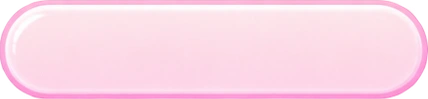
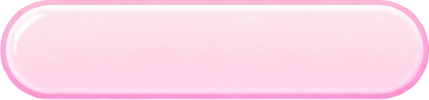
Her pills were chopped in the picture, not in the stretching
The boxes the sheet of buttons was cut with were read off it by eye and several
were narrower than the drawing: chip-off came out 71 wide when her pill is 92,
so the round end was gone before CSS ever saw it - day and night alike, because
both themes wear the same painted files.  The cut now follows her paint
outwards from the middle of each box and keeps the box as well, so a piece can
only grow; it may not reach a neighbour's box, and only solid paint counts, or
the soft shadow between two pieces carries the walk across and a sliver of the
neighbour lands inside the rounded end.

Every piece was cut again and the slice numbers follow the new sizes.  Every
screen's heading now wears one size of icon, so the name of the screen stops
jumping as she moves between them, and the white dot in the Stats legend gets a
faint edge - white on a white card was no dot at all.  The ring's outline is a
little heavier, as she asked.

Claude-Session: https://claude.ai/code/session_011dwC97mpamxjFAUmrBWqmg

diff --git a/app.css b/app.css
@@ -138,6 +138,10 @@ main.study ~ #tabs{display:none}
 /* The name of the screen, the way she drew it: her icon, the word in big
    letters, and what it counts on the right. */
 .head{display:flex;align-items:center;gap:12px;padding:2px 4px 2px 2px}
+/* Every screen's heading wears the same size of icon, so the name of the screen
+   sits at the same height wherever she is - one of them a few pixels bigger and
+   the line jumped as she moved between them. */
+.head .ic{--s:48px}
 .head h1{margin:0;font-size:27px;font-weight:700;letter-spacing:.01em;
   text-shadow:0 1px 4px rgba(255,255,255,.9)}
 /* It stands on her sky, not on a card: grey on that blue all but disappeared. */
@@ -248,13 +252,16 @@ main.study ~ #tabs{display:none}
 .wheel .pct{font-size:22px;font-weight:700}
 .wheel .legend{flex:1;min-width:0;display:flex;flex-direction:column;gap:6px;font-size:14px}
 .wheel .legend div{display:flex;align-items:center;gap:8px}
-.wheel .legend i.dot{width:10px;height:10px;border-radius:50%;flex:none}
+/* The dot for the words she has not started is white, and a white dot on a
+   white card is no dot at all: every one of them carries a faint edge. */
+.wheel .legend i.dot{width:10px;height:10px;border-radius:50%;flex:none;
+  box-shadow:0 0 0 1px rgba(22,70,110,.22)}
 .wheel .legend b{margin-left:auto;font-weight:700}
 /* The little pink plate she writes a section's name on - hers, painted, not one
    drawn in CSS.  Sliced at half its height (58/2), the same rule as the pills. */
 .grp{align-self:flex-start;padding:6px 15px;font-size:11px;font-weight:700;
   color:#b93a76;border:0 solid transparent;background:none;
-  border-image:url(img/tag-pink.webp) 0 29 fill / 0 14px / 0 stretch;
+  border-image:url(img/tag-pink.webp) 0 30 fill / 0 14px / 0 stretch;
   text-transform:uppercase;letter-spacing:.08em}
 /* The plate stays the pink she painted after dark, so the writing on it has to
    stay dark too. */
@@ -323,13 +330,14 @@ main.study ~ #tabs{display:none}
 .chips button{padding:7px 12px;font-size:12px;font-weight:600;color:#4d7fa6;
   border:0 solid transparent;background:none;
 /* The end of a pill is a half-circle, so the slice that keeps its shape is half
-   the picture's height: chip-off is 71x69 and chip-on 110x71.  Cutting less
-   than that (30 was the old number) leaves a piece of the curve in the middle
-   band, and the middle band is stretched - which flattened the pill and read as
-   a button with its ends chopped off. */
-  border-image:url(img/chip-off.webp) 0 34 fill / 0 16px / 0 stretch}
+   the picture's height: chip-off is 92x72 and chip-on 122x73.  Cutting less
+   than that leaves a piece of the curve in the middle band, and the middle band
+   is stretched - which flattened the pill and read as a button with its ends
+   chopped off.  The pictures themselves were chopped too, until the cut learned
+   to follow her paint outwards instead of trusting a box measured by eye. */
+  border-image:url(img/chip-off.webp) 0 36 fill / 0 17px / 0 stretch}
 .chips .on{color:#fff;font-weight:700;
-  border-image-source:url(img/chip-on.webp);border-image-slice:0 35 fill}
+  border-image-source:url(img/chip-on.webp);border-image-slice:0 36 fill}
 .words{background:var(--card);border:1px solid var(--line);border-radius:18px;padding:0 12px;
   box-shadow:var(--shade)}
 .wd{display:grid;grid-template-columns:1fr auto;column-gap:10px;width:100%;text-align:left;
@@ -347,7 +355,7 @@ main.study ~ #tabs{display:none}
    149x59 and the row gives it about 42x23: stretched whole, her rounded ends
    were squashed to a third of the width she drew them at, so it is sliced. */
 .wd.learn .st{background:none;border:0 solid transparent;color:#a8690a;
-  border-image:url(img/tag-cream.webp) 0 29 fill / 0 11px / 0 stretch}
+  border-image:url(img/tag-cream.webp) 0 30 fill / 0 12px / 0 stretch}
 .wd.know .st{background:#dcf5ea;color:#0f8a63}
 :root[data-theme="dark"] .wd.know .st{background:#1e4a3c;color:#5fd6ae}
 .wd .e{grid-column:1/-1;font-size:13px;color:var(--dim);overflow:hidden;text-overflow:ellipsis;white-space:nowrap}
@@ -491,7 +499,7 @@ input,select{padding:10px;border-radius:12px;border:1px solid var(--line);
 /* Her Secondary Button, painted the same way. */
 .wide{width:100%;padding:16px 22px;margin-top:10px;color:#c43d80;font-weight:700;
   border:0 solid transparent;background:none;
-  border-image:url(img/btn-soft.webp) 36 fill / 21px / 0 stretch}
+  border-image:url(img/btn-soft.webp) 0 50 fill / 0 25px / 0 stretch}
 .wide .ic{--s:24px;margin-right:6px}
 .note{font-size:12px;color:var(--dim);margin-top:10px}
 table{width:100%;border-collapse:collapse;font-size:14px;margin-top:4px}

diff --git a/ring.js b/ring.js
@@ -41,7 +41,7 @@ export function ring(cards, size, middle = '') {
         ${arc(know, 'var(--r-know)')}${arc(learn, 'var(--r-learn)')}
         ${arc(fresh, 'var(--r-new)')}${arc(hid, 'var(--r-hid)')}
       </g>
-      <circle cx="52" cy="52" r="${R + 6}" fill="none" stroke="var(--r-edge)" stroke-width="1.5"/>
-      <circle cx="52" cy="52" r="${R - 6}" fill="none" stroke="var(--r-edge)" stroke-width="1.5"/>
+      <circle cx="52" cy="52" r="${R + 6}" fill="none" stroke="var(--r-edge)" stroke-width="2.4"/>
+      <circle cx="52" cy="52" r="${R - 6}" fill="none" stroke="var(--r-edge)" stroke-width="2.4"/>
     </svg>${middle}</div>`;
 }

diff --git a/page.js b/page.js
@@ -62,7 +62,7 @@ export function openBoard(id) {
   // The board says its own name on the screen, the way every other screen does
   // and the way she drew it - not only in small letters up in the header.
   $('main').innerHTML = `
-    <div class="head">${ic(boardIcon(id), '44px')}<h1>${esc(boardName(id))}</h1>
+    <div class="head">${ic(boardIcon(id))}<h1>${esc(boardName(id))}</h1>
       <span class="s">${cards.length} words</span></div>
     <div class="go">${go}</div>
     <div class="chips">${KINDS.filter(([k]) => k === 'all' || count(k)).map(([k, name]) =>

diff --git a/decks.js b/decks.js
@@ -53,7 +53,7 @@ export function home() {
   const rows = ids.map((id) => [id, counts(id)]).filter(([, n]) => passes(n));
   $('main').className = 'home';
   $('main').innerHTML = `
-    <div class="head">${ic('repeat', '52px')}<h1>Decks</h1>
+    <div class="head">${ic('repeat')}<h1>Decks</h1>
       <span class="s">${deck.decks.length} boards</span></div>
     <div class="chips">${FILTERS.map(([k, name]) =>
       `<button data-k="${k}"${k === filter ? ' class="on"' : ''}>${name}</button>`).join('')}</div>

diff --git a/statsview.js b/statsview.js
@@ -112,7 +112,7 @@ export function statsPage() {
 
   $('main').className = 'page';
   $('main').innerHTML = `
-    <div class="head">${ic('stats', '44px')}<h1>Stats</h1>
+    <div class="head">${ic('stats')}<h1>Stats</h1>
       <span class="s">${cards.length} words</span></div>
     <div class="chips">${TABS.map(([k, name]) =>
       `<button data-k="${k}"${k === tab ? ' class="on"' : ''}>${name}</button>`).join('')}</div>

diff --git a/settings.js b/settings.js
@@ -25,7 +25,7 @@ export function settingsPage() {
   // read a beach through.
   $('main').className = 'page settings';
   $('main').innerHTML = `
-    <div class="head">${ic('settings', '44px')}<h1>Settings</h1></div>
+    <div class="head">${ic('gear')}<h1>Settings</h1></div>
     <div class="grp">Learning</div>
     <div class="pane">
       <div class="set">${ic('goal')}<span class="n">New words at a time</span>
